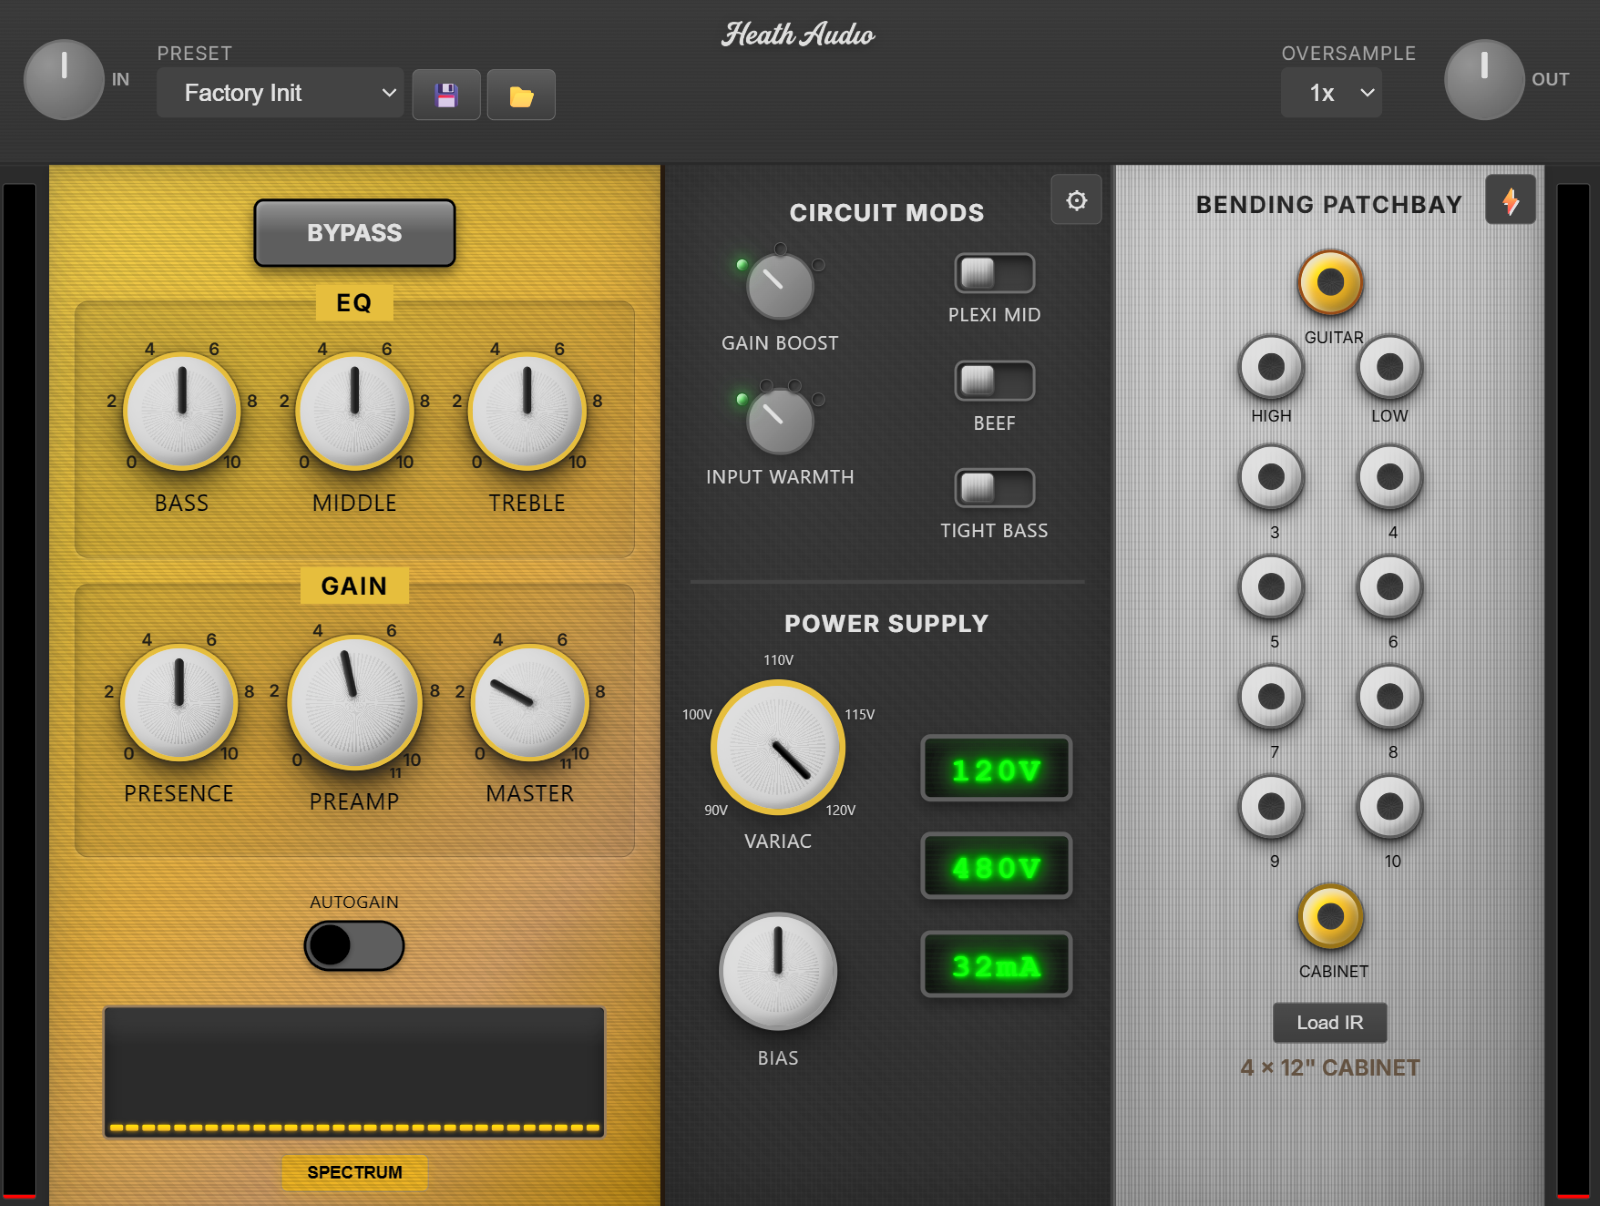
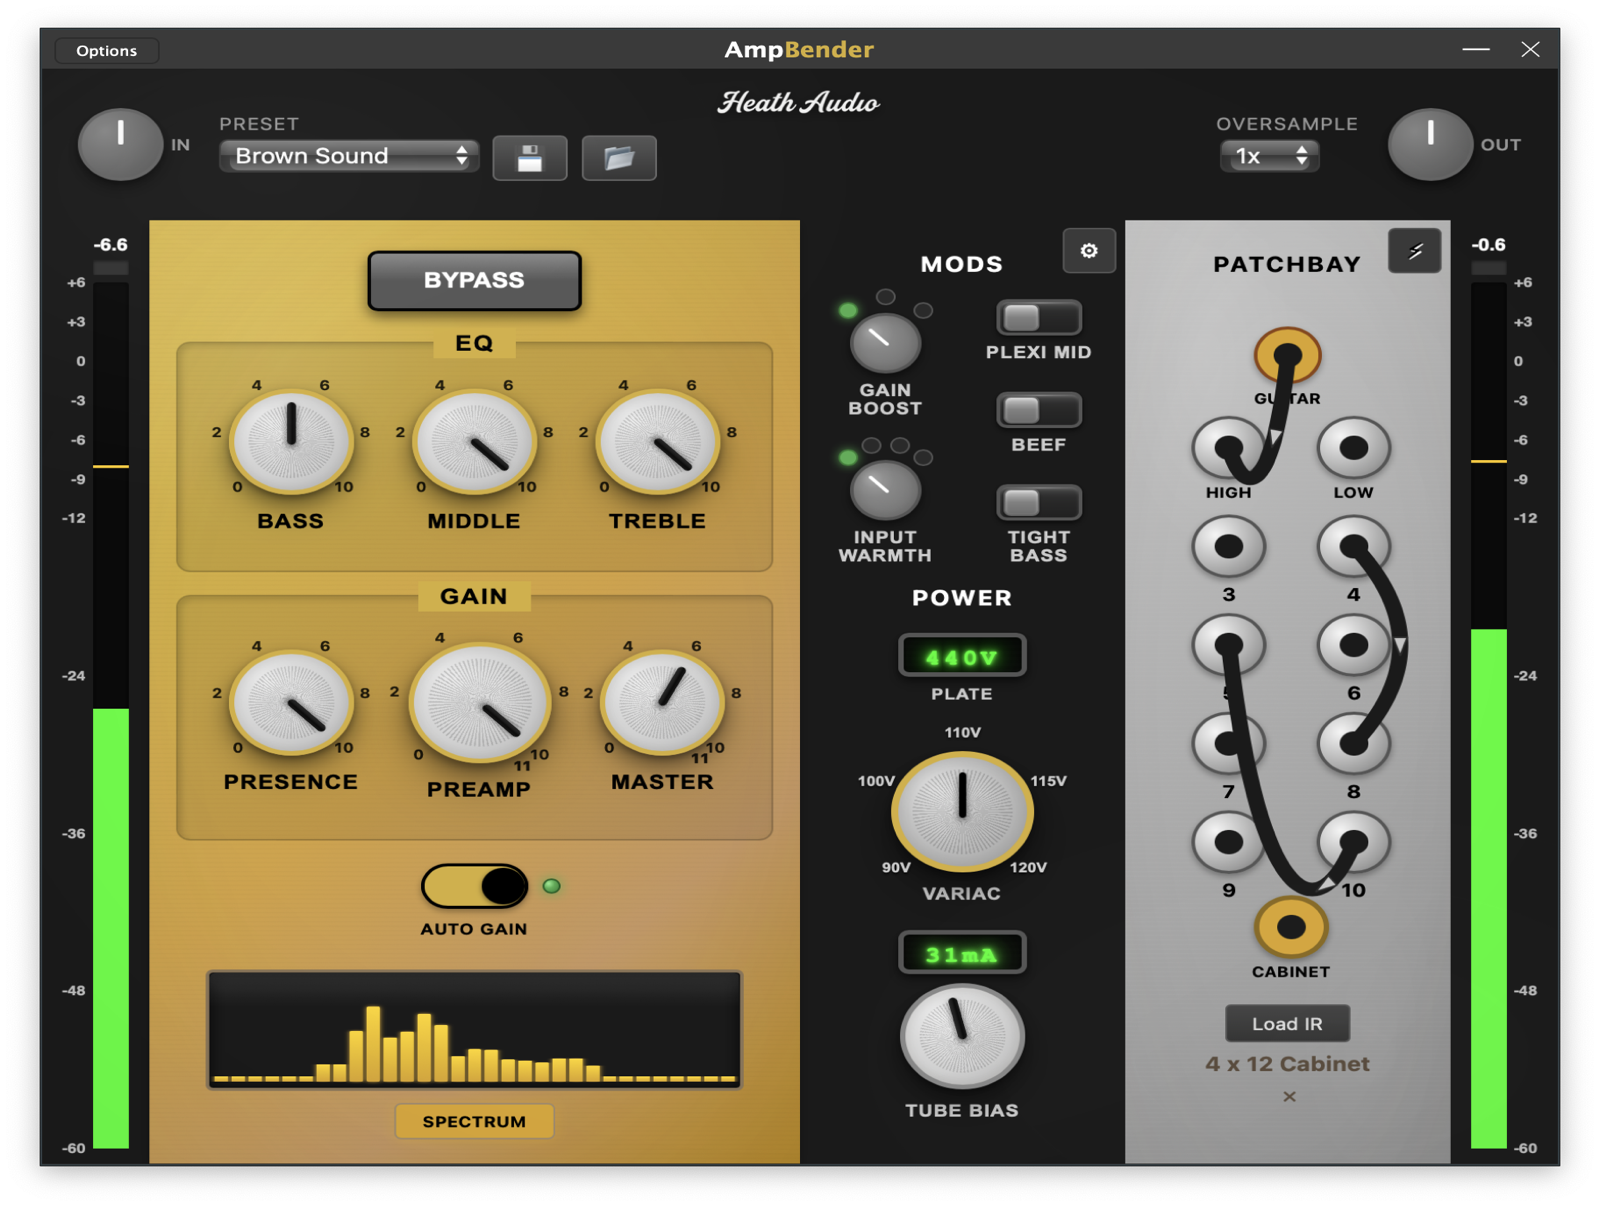
Update hero screenshot with new UI
- New hero shot showing Brown Sound preset, spectrum analyzer, lit meters
- Updated Support link to GitHub issues

🤖 Generated with [Claude Code](https://claude.com/claude-code)

diff --git a/index.html b/index.html
@@ -4,7 +4,7 @@
   <meta charset="UTF-8">
   <meta name="viewport" content="width=device-width, initial-scale=1.0">
   <title>AmpBender - Tube Amp Simulator | Heath Audio</title>
-  <meta name="description" content="AmpBender v1.0.32 - Professional tube amp simulation with IR loader, circuit mods, and vintage tone shaping. Free download for Windows and macOS.">
+  <meta name="description" content="AmpBender v1.0.0 Beta - Professional tube amp simulation with IR loader, circuit mods, and vintage tone shaping. Free download for Mac and Windows.">
 
   <!-- Fonts -->
   <link rel="preconnect" href="https://fonts.googleapis.com">
@@ -716,7 +716,6 @@
         <a href="#patchbay" class="nav-link">Bending Patchbay</a>
         <a href="#features" class="nav-link">Features</a>
         <a href="#gallery" class="nav-link">Screenshots</a>
-        <a href="docs/AmpBender-Manual-v1.0.32.pdf" class="nav-link" target="_blank">Manual</a>
         <a href="#download" class="nav-link">Download</a>
       </nav>
     </div>
@@ -725,7 +724,7 @@
   <!-- Hero -->
   <section class="hero">
     <div class="container">
-      <span class="beta-badge">v1.0.32 Beta</span>
+      <span class="beta-badge">v1.0.1 Beta</span>
       <h1 class="hero-title">Amp<span>Bender</span></h1>
       <p class="hero-subtitle">
         Based on the legendary Marshall JCM800 circuit. Our goal: discover new tones
@@ -738,21 +737,21 @@
 
       <div class="download-section" id="download">
         <div class="download-buttons">
-          <a href="installers/AmpBender-v1.0.32-Windows-Installer.exe" class="btn btn-primary" download>
+          <a href="installers/AmpBender-v1.0.1-MacOS.pkg" class="btn btn-primary" download>
+            <svg class="btn-icon" viewBox="0 0 24 24" fill="currentColor">
+              <path d="M18.71 19.5c-.83 1.24-1.71 2.45-3.05 2.47-1.34.03-1.77-.79-3.29-.79-1.53 0-2 .77-3.27.82-1.31.05-2.3-1.32-3.14-2.53C4.25 17 2.94 12.45 4.7 9.39c.87-1.52 2.43-2.48 4.12-2.51 1.28-.02 2.5.87 3.29.87.78 0 2.26-1.07 3.81-.91.65.03 2.47.26 3.64 1.98-.09.06-2.17 1.28-2.15 3.81.03 3.02 2.65 4.03 2.68 4.04-.03.07-.42 1.44-1.38 2.83M13 3.5c.73-.83 1.94-1.46 2.94-1.5.13 1.17-.34 2.35-1.04 3.19-.69.85-1.83 1.51-2.95 1.42-.15-1.15.41-2.35 1.05-3.11z"/>
+            </svg>
+            Download for Mac
+          </a>
+          <a href="installers/AmpBender-Windows-1.0.0-beta.exe" class="btn btn-secondary" download>
             <svg class="btn-icon" viewBox="0 0 24 24" fill="currentColor">
               <path d="M0 3.449L9.75 2.1v9.451H0m10.949-9.602L24 0v11.4H10.949M0 12.6h9.75v9.451L0 20.699M10.949 12.6H24V24l-12.9-1.801"/>
             </svg>
             Download for Windows
           </a>
-          <a href="installers/AmpBender-v1.0.32-macOS.pkg" class="btn btn-primary" download>
-            <svg class="btn-icon" viewBox="0 0 24 24" fill="currentColor">
-              <path d="M18.71 19.5c-.83 1.24-1.71 2.45-3.05 2.47-1.34.03-1.77-.79-3.29-.79-1.53 0-2 .77-3.27.82-1.31.05-2.3-1.32-3.14-2.53C4.25 17 2.94 12.45 4.7 9.39c.87-1.52 2.43-2.48 4.12-2.51 1.28-.02 2.5.87 3.29.87.78 0 2.26-1.07 3.81-.91.65.03 2.47.26 3.64 1.98-.09.06-2.17 1.28-2.15 3.81.03 3.02 2.65 4.03 2.68 4.04-.03.07-.42 1.44-1.38 2.83M13 3.5c.73-.83 1.94-1.46 2.94-1.5.13 1.17-.34 2.35-1.04 3.19-.69.85-1.83 1.51-2.95 1.42-.15-1.15.41-2.35 1.05-3.11z"/>
-            </svg>
-            Download for macOS
-          </a>
         </div>
         <p class="download-info">
-          VST3, AU &amp; Standalone | Windows 10+ (64-bit) | macOS 10.13+ (Universal)
+          VST3, AU &amp; Standalone | macOS 10.13+ / Windows 10+ (64-bit)
         </p>
       </div>
 
@@ -916,16 +915,16 @@
       <h2 class="section-title">Minimum Requirements</h2>
       <div class="requirements-box">
         <div class="requirement-item">
+          <span class="req-label">macOS</span>
+          <span class="req-value">macOS 10.13+ (Intel & Apple Silicon)</span>
+        </div>
+        <div class="requirement-item">
           <span class="req-label">Windows</span>
           <span class="req-value">Windows 10+ (64-bit only)</span>
         </div>
         <div class="requirement-item">
-          <span class="req-label">macOS</span>
-          <span class="req-value">macOS 10.13+ (Universal - Intel &amp; Apple Silicon)</span>
-        </div>
-        <div class="requirement-item">
           <span class="req-label">CPU</span>
-          <span class="req-value">Intel Core i7 (8th-gen+) or AMD Ryzen 5 (3000-series+) or Apple M1+</span>
+          <span class="req-value">Intel Core i7 (8th-gen+) / Apple M1+ / AMD Ryzen 5 (3000-series+)</span>
         </div>
         <div class="requirement-item">
           <span class="req-label">RAM</span>
@@ -933,7 +932,7 @@
         </div>
         <div class="requirement-item">
           <span class="req-label">Formats</span>
-          <span class="req-value">VST3, AU (macOS), Standalone</span>
+          <span class="req-value">VST3, AU (Mac), Standalone</span>
         </div>
       </div>
     </div>
@@ -946,7 +945,7 @@
         <h3 class="notice-title">Beta Version Notice</h3>
         <p class="notice-text">
           This is a beta release for testing purposes. Some features may still be in development.
-          Please <a href="https://github.com/jasonlnheath/AmpBender/issues" target="_blank">report any bugs or feedback</a> to help us improve AmpBender before the official release.
+          Please report any bugs or feedback to help us improve AmpBender before the official release.
         </p>
       </div>
     </div>
@@ -960,7 +959,7 @@
       </div>
       <div class="footer-links">
         <a href="mailto:jasonlnheath@gmail.com" class="footer-link">Contact</a>
-        <a href="https://github.com/jasonlnheath/AmpBender/issues" class="footer-link" target="_blank">Support</a>
+        <a href="https://github.com/jasonlnheath/AmpBender/issues" class="footer-link">Support</a>
       </div>
       <p class="footer-copy">&copy; 2025 Heath Audio. All rights reserved.</p>
     </div>
